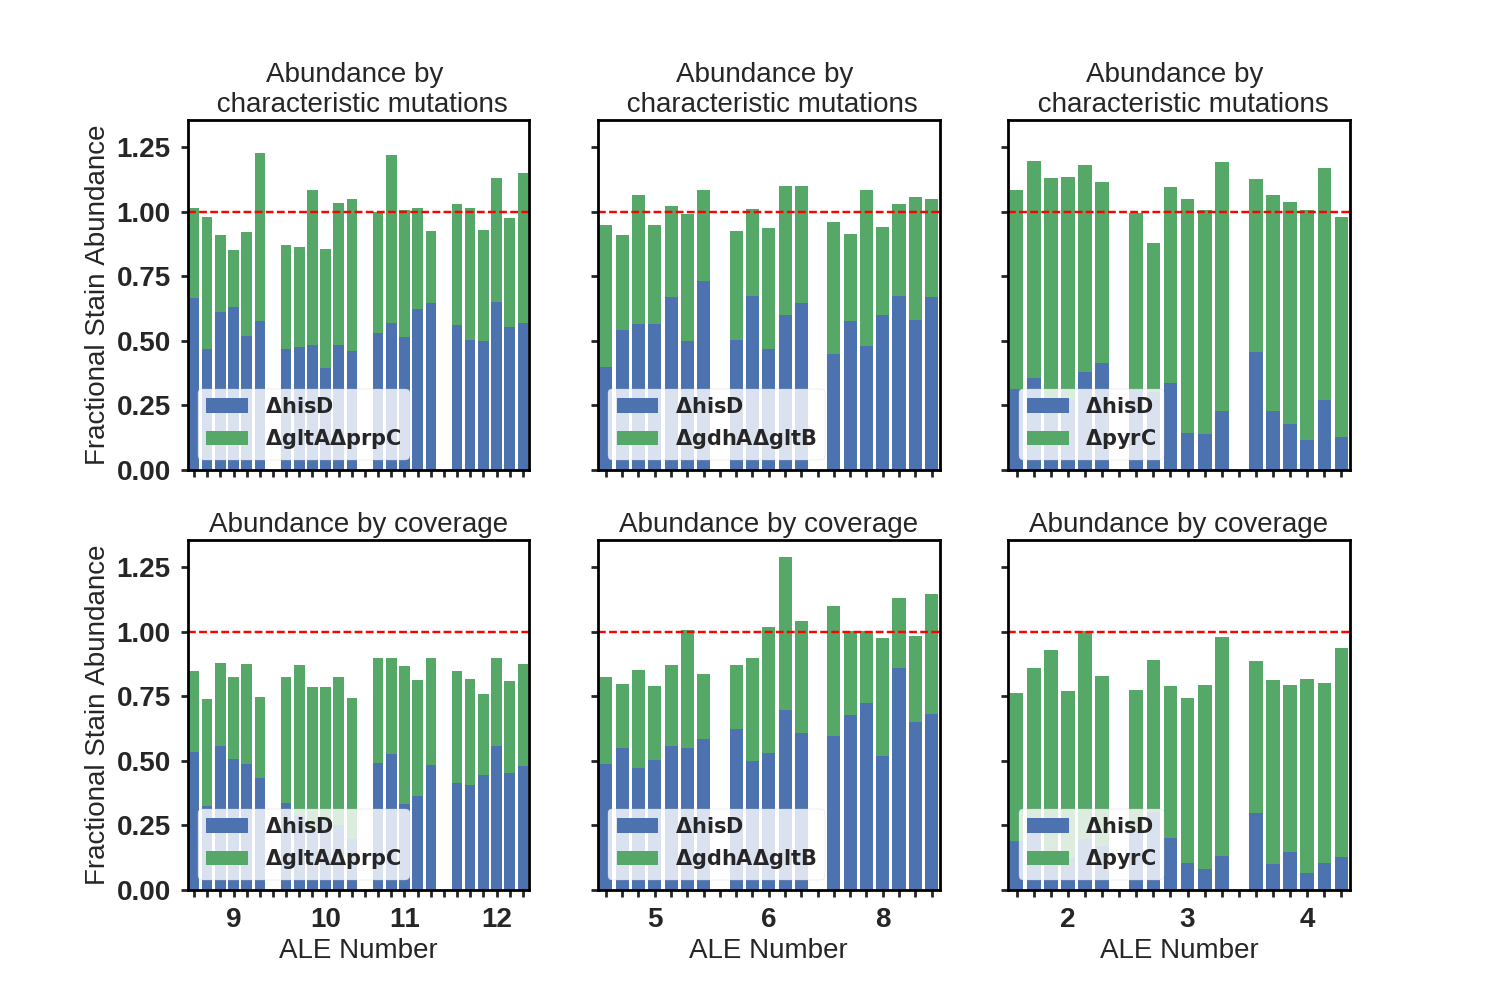
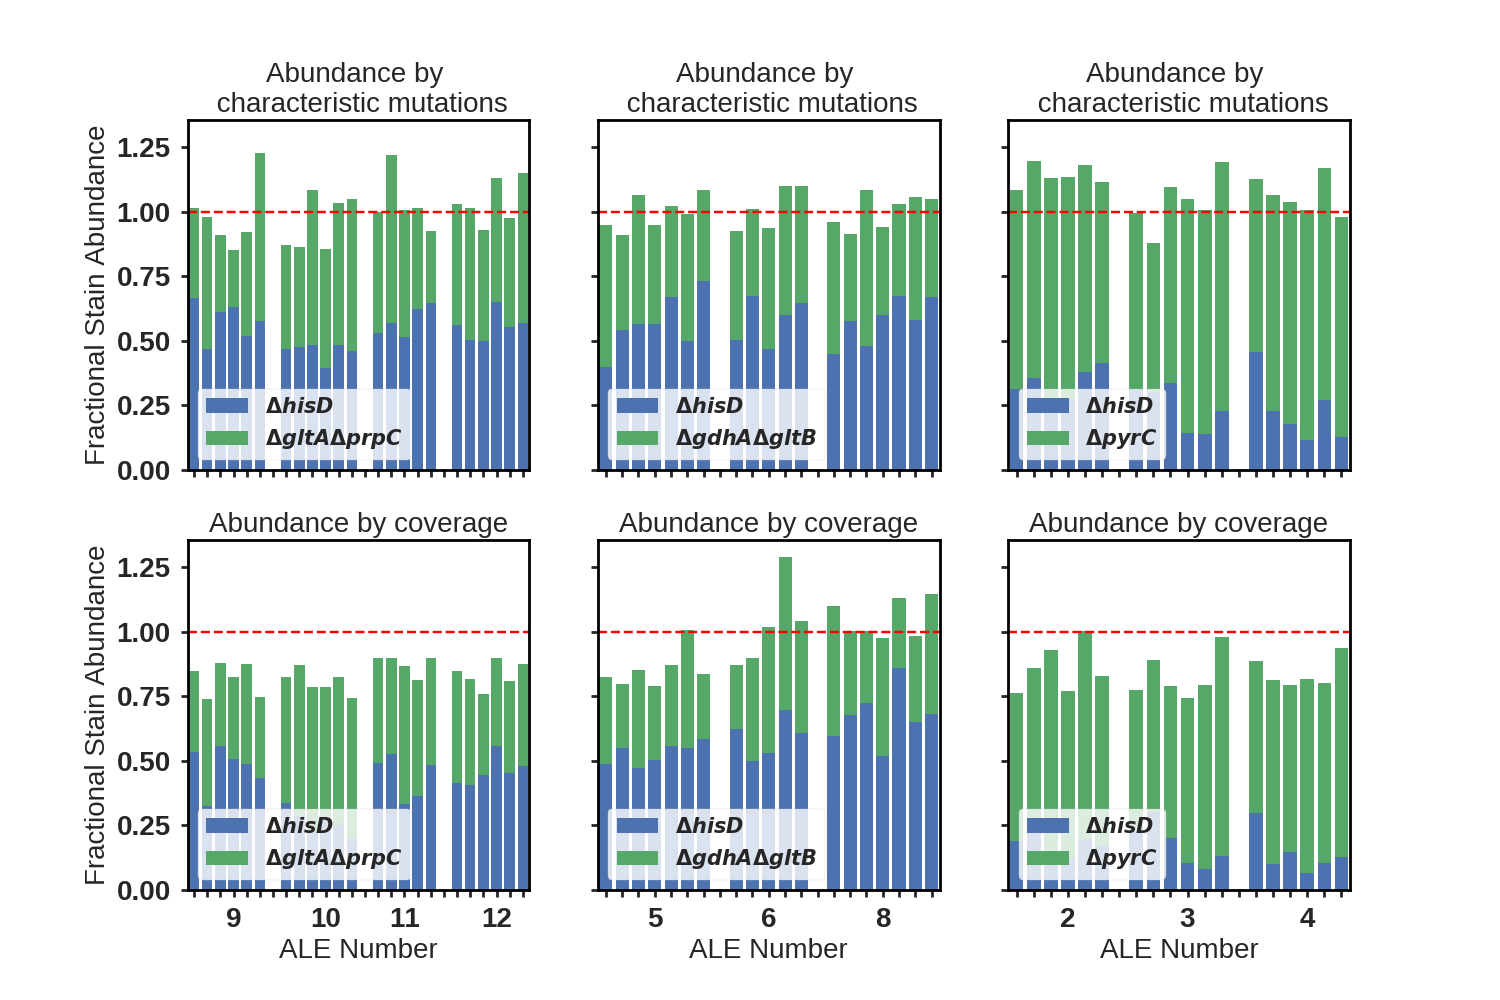
Update readme refactor abundance scripts

diff --git a/optaux/ale_resequencing/relative_abundance.py b/optaux/ale_resequencing/relative_abundance.py
@@ -53,7 +53,7 @@ def _fill_missing_df_entries(df, pair):
     df.loc['3,178,254', 'AUX hisD pyrC A4 F24 I0 R1'] = 0.  # not found
     df.loc['3,178,254', 'AUX hisD pyrC A4 F24 I0 R2'] = .088
 
-    # envZ (shouldn't be 100%)
+    # envZ (shouldn't be 100%, breseq rounds values to 100 in some cases)
     df.loc['3,529,197', 'AUX hisD pyrC A4 F11 I0 R2'] = .719
     df.loc['3,529,197', 'AUX hisD pyrC A4 F17 I0 R1'] = .915
     df.loc['3,529,197', 'AUX hisD pyrC A4 F24 I0 R2'] = .913
@@ -128,9 +128,10 @@ def get_characteristic_abundance_df(save_loc):
                 return True
             return False
 
-        df_raw = pd.read_excel('%s/key_mutations_final.xls' % resource_dir,
-                               sheetname='_'.join([strain_1_name,
-                                                   strain_2_name]))
+        df_raw = \
+            pd.read_csv('%s/resequencing_data/AUX %s %s Mutation Table.csv' %
+                        (resource_dir, strain_1_name, strain_2_name))
+
         df_raw.set_index('Position', inplace=True)
         df = df_raw[[i for i in df_raw.columns if not _drop_column(i)]]
 
@@ -165,17 +166,17 @@ def get_characteristic_abundance_df(save_loc):
             _append_rows_to_abundance_df(out_df, strain_1_name, strain_2_name,
                                          strain_1_abundances,
                                          strain_2_abundances)
-
-    out_df.to_excel('%s/StrainAbundances_Strain1.xlsx' % resource_dir)
+    print(out_df)
+    out_df.to_excel('%s/characteristic_abundances_strain1.xlsx' % save_loc)
     stats_df.to_csv('%s/characteristic_hisD_abundance_stats.csv' % save_loc)
 
 
-def get_coverage_abundance_df(save_loc):
+def get_coverage_abundance_df(save_loc, alignment_loc):
     out_df = pd.DataFrame()
     stats_df = pd.DataFrame()
 
-    root = '/media/hard_drive/for_ale_analytics/aux/'
-    seqs = SeqIO.read('%s/resequencing_data/CP009273_1.gb' % here, 'gb')
+    seqs = SeqIO.read('%s/resequencing_data/CP009273_1.gb' % resource_dir,
+                      'gb')
 
     a = {}
     for feat in seqs.features:
@@ -190,11 +191,12 @@ def get_coverage_abundance_df(save_loc):
         strain_1_name = pair.split('_')[0]
         strain_2_name = pair.split('_')[1]
 
-        for file in glob.glob(
-                        root + 'aux_%s/breseq/ale/*/data/reference.bam' % pair):
+        for file in glob.glob(alignment_loc +
+                              'aux_%s/breseq/ale/*/data/reference.bam' % pair):
             ale_name = file.split('ale/')[1].split('/data')[0]
             summary_df = \
-                pd.read_html(root + 'aux_%s/breseq/ale/%s/output/summary.html'
+                pd.read_html(alignment_loc +
+                             'aux_%s/breseq/ale/%s/output/summary.html'
                              % (pair, ale_name))
             fit_mean = float(summary_df[2][4][1])  # position of fit mean value
 
@@ -254,5 +256,5 @@ def get_coverage_abundance_df(save_loc):
                                          abundance_df.loc[strain_1_name].values,
                                          abundance_df.loc[strain_2_name].values)
 
-    out_df.to_excel('%s/coverage_StrainAbundances_Strain1.xlsx' % resource_dir)
+    out_df.to_excel('%s/coverage_abundances_strain1.xlsx' % save_loc)
     stats_df.to_csv('%s/coverage_hisD_abundance_stats.csv' % save_loc)

diff --git a/scripts_figures_and_tables/output_relative_abundance_results.py b/scripts_figures_and_tables/output_relative_abundance_results.py
@@ -12,6 +12,7 @@ here = dirname(abspath(__file__))
 if __name__ == '__main__':
     table_save_loc = '%s/relative_abundance/tables' % here
     fig_save_loc = '%s/relative_abundance/figures' % here
+    alignment_loc = '/media/hard_drive/for_ale_analytics/aux/'
 
     fig, axes = plt.subplots(2, 3, figsize=(15, 10), sharey=True, sharex='col')
     print(axes)
@@ -26,7 +27,8 @@ if __name__ == '__main__':
         cov_file = \
             '%s/abundance_by_coverage_%s.csv' % (table_save_loc, pair)
         if not exists(cov_file):
-            relative_abundance.get_coverage_abundance_df(table_save_loc)
+            relative_abundance.get_coverage_abundance_df(table_save_loc,
+                                                         alignment_loc)
         cov_df = pd.read_csv(cov_file, index_col=0, header=None)
 
         relative_abundance_plotting.plot_abundance_df(char_df, s1, s2,
@@ -41,6 +43,7 @@ if __name__ == '__main__':
         axes[i][0].set_ylabel('Fractional Stain Abundance')
 
     fig.savefig('%s/coverage.png' % fig_save_loc)
+    fig.savefig('/home/sbrg-cjlloyd/Dropbox/coverage.eps', dpi=1000)
 
     # Normalize = True ensure abundance predictions add to 1
     relative_abundance_plotting.plot_pairwise_comparison_of_preditions(

diff --git a/optaux/ale_resequencing/relative_abundance_plotting.py b/optaux/ale_resequencing/relative_abundance_plotting.py
@@ -31,10 +31,10 @@ plt.rcParams['xtick.major.size'] = 5
 plt.rcParams['xtick.major.width'] = 2
 plt.rcParams['axes.grid'] = False
 
-strain_to_ko = {'hisD': r'$\Delta \mathrm{hisD}$',
-                'pyrC': r'$\Delta \mathrm{pyrC}$',
-                'gltA': r'$\Delta \mathrm{gltA} \Delta \mathrm{prpC}$',
-                'gltB': r'$\Delta \mathrm{gdhA} \Delta \mathrm{gltB}$'}
+strain_to_ko = {'hisD': r'$\Delta \mathit{hisD}$',
+                'pyrC': r'$\Delta \mathit{pyrC}$',
+                'gltA': r'$\Delta \mathit{gltA} \Delta \mathit{prpC}$',
+                'gltB': r'$\Delta \mathit{gdhA} \Delta \mathit{gltB}$'}
 
 
 def _get_x_label_array(df):

diff --git a/scripts_figures_and_tables/make_optaux_supplement.py b/scripts_figures_and_tables/make_optaux_supplement.py
@@ -24,7 +24,7 @@ if __name__ == '__main__':
                     index_col=0).T.values[0]
     # Load model for OptAux
     cons_model = cobra.io.load_json_model(model_loc)
-    writer = pd.ExcelWriter('Supplement_1_optaux_solutions_final.xls')
+    writer = pd.ExcelWriter('supplement_1_optaux_solutions.xls')
 
     # Load known model false positives. Exclude these from possible knockouts
 

diff --git a/README.md b/README.md
@@ -1,1 +1,55 @@
 # OptAux
+
+Files and scripts needed to reproduce the figures in "Model-driven
+design and evolution of non-trivial synthetic syntrophic pairs"
+
+## Docker
+Project can be installed using docker by running from the docker folder
+```
+docker build -t optaux:everything .
+```
+
+this will install everything needed to reproduce most of the results outlined
+below including the community iJL1678b-ME model.
+
+## Reproducing Figures/Tables
+### OptAux simulations
+Run `python make_optaux_supplement.py`
+
+This runs OptAux algorithm in aerobic glucose minimal media conditions for
+all carbon containing exchange reactions in iJO1366. It will by default
+run OptAux for 4 `trace_metabolite_thresholds` (0, .01, .1, and 2) and
+output the results in `supplement_1_optaux_solutions.xls`
+
+### Relative abundance approximations
+By running `python output_relative_abundance_results.py` this will:
+
+1. Check if `abundance_by_characteristic_[pair_name].csv`
+and `abundance_by_coverage_[pair_name].csv` are located in
+`[optaux]/scripts_figures_and_tables/relative_abundance/tables`. If
+not, these CSVs will be created using the information in the read Bowtie2
+alignment BAM files for all sequencing samples (not provided for now)
+and breseq generated mutation calls found in
+`[optaux]/optaux/resources/resequencing_data/AUX [pair_name] Mutation Table.csv`
+
+2. Output bar charts of the characteristic mutation/alignment coverage
+base approximations of relative strain abundances in
+`[optaux]/scripts_figures_and_tables/relative_abundance/figures` as well
+as a comparison of the predictions based on each method.
+
+## Software
+The following software and versions were used for publication:
+
+- Python 2.7/3.6
+- An MILP solver. We recommend Gurobi.
+- [cobrame](https:/github.com/sbrg/cobrame) v0.0.7
+- [ecolime](https:/github.com/sbrg/ecolime) v0.0.7
+- [solvempy](https:/github.com/sbrg/solvemepy) v1.0.1
+    - Including the qMINOS solver
+- pysam v0.14.1
+- openpyxl v2.3.2
+- pandas v0.22.0
+- matplotlib v2.0.2
+- numpy v1.14.2
+- scipy v0.19.0
+- Biopython v1.66
